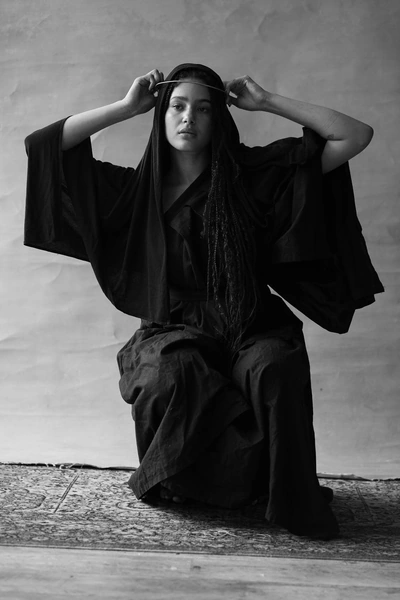
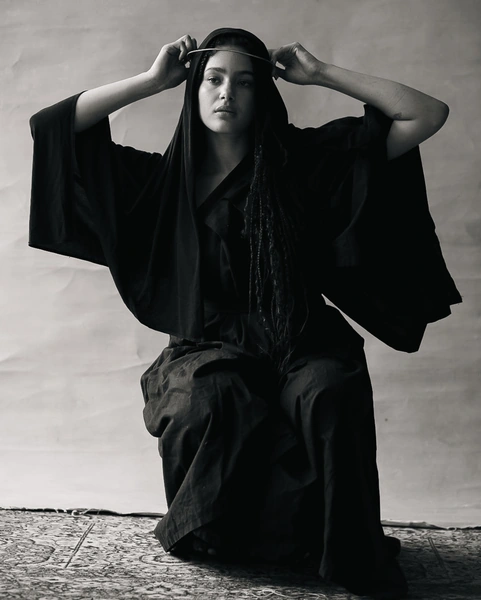
Refine styling covers and center Binhe project caption

diff --git a/src/templates.js b/src/templates.js
@@ -71,13 +71,13 @@ function binheLink() {
 function home() {
   return `<section class="home-hero" aria-labelledby="home-title"><div class="hero-heading"><h1 id="home-title" class="gothic">Storm Nijhuis</h1></div><div class="hero-info"><p>Fashion design · Styling · Creative direction</p><p>Amsterdam, NL <span class="small-separator">/</span> Lichting finalist</p></div></section>
     <section id="introduction" class="home-introduction section-pad"><div class="intro-copy reveal"><h2>The person behind the work</h2>${homeBiography.map((paragraph) => `<p>${paragraph}</p>`).join('')}<a class="text-link" href="/about/">More about me</a></div><a class="intro-portrait reveal" href="/about/" aria-label="Meet Storm">${picture('presentation-8537', { eager: true })}<span>Storm presenting Hellion</span></a></section>
-    <section class="selected-work section-pad" aria-labelledby="selected-title"><div class="section-heading reveal"><h2 id="selected-title">Design</h2><a class="section-link" href="/design/">View all</a></div><div class="project-pair reveal">${projectLink({ href: '/design/hellion/', image: 'editorial-v1-17', title: 'Hellion', label: 'Collection', extra: '2026' })}${projectLink({ href: '/design/anima-obscura/', image: 'anima-08', title: 'Anima Obscura', label: 'Editorial' })}${binheLink()}</div></section>
+    <section class="selected-work section-pad" aria-labelledby="selected-title"><div class="section-heading reveal"><h2 id="selected-title">Design</h2><a class="section-link" href="/design/">View all</a></div><div class="project-pair reveal">${projectLink({ href: '/design/hellion/', image: 'editorial-v1-17', title: 'Hellion', label: 'Collection', extra: '2026' })}${projectLink({ href: '/design/anima-obscura/', image: 'anima-08', title: 'Anima Obscura', label: 'Editorial', extra: '2025' })}${binheLink()}</div></section>
     <section class="styling-preview section-pad reveal"><div class="section-heading"><h2>Styling</h2><a class="section-link" href="/styling/">View all</a></div><div class="styling-strip">${stylingProjects.map((project) => `<a class="styling-preview-project" href="/styling/#${project.id}"><div class="styling-preview-image">${picture(project.cover, { sizes: '(max-width: 700px) 72vw, 30vw' })}</div><div class="styling-preview-caption"><h3>${project.title}</h3><p>${project.label}</p></div></a>`).join('')}</div></section>
     <section class="film-preview section-pad reveal"><div class="section-heading"><h2>Creative direction</h2><a class="section-link" href="/creative-direction/">View the film</a></div><div class="film-preview-meta"><h3 class="gothic">${film.title}</h3><div><p class="film-format">${film.format}</p><p class="eyebrow">${film.status}</p></div></div><p class="film-preview-logline">${film.logline}</p><a class="film-image" href="/creative-direction/" aria-label="Explore Hellion, a short fashion film">${picture(film.previewStill, { sizes: '100vw' })}</a></section>`;
 }
 
 function design() {
-  return `${pageHeading({ title: 'Design', intro: 'Clothing as a way to explore identity. Material as a starting point.' })}<section class="design-projects section-pad"><div class="project-pair reveal">${projectLink({ href: '/design/hellion/', image: 'editorial-v2-29', title: 'Hellion', label: 'Collection · Lookbook · Editorial', extra: '2026', eager: true })}${projectLink({ href: '/design/anima-obscura/', image: 'anima-08', title: 'Anima Obscura', label: 'Fashion editorial · With Denise Bakker', eager: true, priority: false })}${binheLink()}</div></section>`;
+  return `${pageHeading({ title: 'Design', intro: 'Clothing as a way to explore identity. Material as a starting point.' })}<section class="design-projects section-pad"><div class="project-pair reveal">${projectLink({ href: '/design/hellion/', image: 'editorial-v2-29', title: 'Hellion', label: 'Collection · Lookbook · Editorial', extra: '2026', eager: true })}${projectLink({ href: '/design/anima-obscura/', image: 'anima-08', title: 'Anima Obscura', label: 'Fashion editorial · With Denise Bakker', extra: '2025', eager: true, priority: false })}${binheLink()}</div></section>`;
 }
 
 export function renderLook(index = 0) {
@@ -109,7 +109,7 @@ function hellion() {
 
 function animaPage() {
   const featured = ['anima-08', 'anima-18', 'anima-03', 'anima-13', 'anima-28', 'anima-09'];
-  return `${pageHeading({ title: 'Anima<br />Obscura', intro: 'A fashion editorial exploring the hidden self, made with Denise Bakker.' })}<section class="anima-opening section-pad"><div class="anima-opening-image" data-gallery="${anima.join(',')}">${photo('anima-08', { eager: true })}</div><div class="anima-opening-copy reveal"><h2>Between a dream<br />and a nightmare.</h2><p>A fashion editorial exploring the hidden self. Inspired by Jung’s idea of the dark anima, the series moves between intimacy and estrangement, light and shadow.</p><p>Fashion design and styling by Storm Nijhuis. Concept and creative direction with Denise Bakker.</p><div class="project-facts"><span>Photography</span><span>Denise Bakker</span><span>Models</span><span>Luanda Schuster & Jakob Weissbarth</span></div></div></section><section id="anima-editorial" class="anima-story section-pad">${gallery(featured.slice(1, 3), 'anima-pair')}${gallery(featured.slice(3), 'anima-sequence')}${archive(anima, 'Explore the complete series', featured)}</section><details class="credits section-pad"><summary>Project credits</summary><dl><dt>Concept & creative direction</dt><dd>Storm Nijhuis & Denise Bakker</dd><dt>Fashion design & styling</dt><dd>Storm Nijhuis</dd><dt>Photography</dt><dd>Denise Bakker</dd><dt>Models</dt><dd>Luanda Schuster (UNS Models)<br />Jakob Weissbarth (IZAIO Models)</dd><dt>Make-up</dt><dd>Milena Lazija</dd><dt>Hair</dt><dd>Alina Tupalova</dd><dt>Set & styling assistance</dt><dd>Nora Gustafsson</dd></dl></details><div class="next-project section-pad"><span class="eyebrow">Explore more</span><a href="/styling/">Styling</a></div>`;
+  return `${pageHeading({ title: 'Anima<br />Obscura', intro: 'A 2025 fashion editorial exploring the hidden self, made with Denise Bakker.' })}<section class="anima-opening section-pad"><div class="anima-opening-image" data-gallery="${anima.join(',')}">${photo('anima-08', { eager: true })}</div><div class="anima-opening-copy reveal"><h2>Between a dream<br />and a nightmare.</h2><p>A fashion editorial exploring the hidden self. Inspired by Jung’s idea of the dark anima, the series moves between intimacy and estrangement, light and shadow.</p><p>Fashion design and styling by Storm Nijhuis. Concept and creative direction with Denise Bakker.</p><div class="project-facts"><span>Photography</span><span>Denise Bakker</span><span>Models</span><span>Luanda Schuster & Jakob Weissbarth</span></div></div></section><section id="anima-editorial" class="anima-story section-pad">${gallery(featured.slice(1, 3), 'anima-pair')}${gallery(featured.slice(3), 'anima-sequence')}${archive(anima, 'Explore the complete series', featured)}</section><details class="credits section-pad"><summary>Project credits</summary><dl><dt>Concept & creative direction</dt><dd>Storm Nijhuis & Denise Bakker</dd><dt>Fashion design & styling</dt><dd>Storm Nijhuis</dd><dt>Photography</dt><dd>Denise Bakker</dd><dt>Models</dt><dd>Luanda Schuster (UNS Models)<br />Jakob Weissbarth (IZAIO Models)</dd><dt>Make-up</dt><dd>Milena Lazija</dd><dt>Hair</dt><dd>Alina Tupalova</dd><dt>Set & styling assistance</dt><dd>Nora Gustafsson</dd></dl></details><div class="next-project section-pad"><span class="eyebrow">Explore more</span><a href="/styling/">Styling</a></div>`;
 }
 
 function projectCredits(credits, className = '') {

diff --git a/src/styles.css b/src/styles.css
@@ -56,9 +56,7 @@ main:focus{outline:none}
 .project-pair{display:grid;grid-template-columns:1fr 1fr;gap:5vw}
 .project-image{position:relative;overflow:hidden}
 .project-image img{width:100%;height:auto}
-.project-link--featured{grid-column:1/-1;display:grid;grid-template-columns:1fr 1fr;gap:5vw;align-items:center;margin-top:2vw}
-.project-link--featured .project-caption{padding:24px 0;align-self:center}
-.project-link--featured .project-caption p{font-size:0.8125rem;line-height:1.6;max-width:300px;margin-top:14px}
+.project-link--featured{grid-column:1/-1;display:block;width:calc((100% - 5vw)/2);justify-self:center;margin-top:2vw}
 .project-caption{display:flex;align-items:center;padding:21px 0;gap:20px;border-bottom:1px solid var(--line)}
 .project-caption h3{font-size:clamp(1.5625rem,2.8vw,2.8125rem);font-weight:500;letter-spacing:-.04em;line-height:1.05}
 .project-caption h3.gothic{font-weight:400;font-size:clamp(2rem,4vw,4rem);line-height:.8;margin-bottom:8px}
@@ -66,7 +64,7 @@ main:focus{outline:none}
 .project-extra{font-size:0.6875rem;letter-spacing:.015em;margin-left:auto;color:var(--muted)}
 .styling-preview{padding-top:35px;padding-bottom:100px}
 .styling-strip{display:grid;grid-template-columns:repeat(3,1fr);gap:2vw;align-items:start}
-.styling-preview-image{aspect-ratio:1/1.3;display:flex;align-items:center;background:#0d0d0d}
+.styling-preview-image{aspect-ratio:4007/5000;display:flex;align-items:center;background:#0d0d0d}
 .styling-strip img{width:100%;height:100%;object-fit:contain}
 .styling-preview-caption{padding:18px 0;border-bottom:1px solid var(--line)}
 .styling-preview-caption h3{font-size:1rem;font-weight:500;line-height:1.4}
@@ -288,7 +286,7 @@ summary::-webkit-details-marker{display:none}
   .section-heading>.text-link{font-size:0.6875rem;letter-spacing:.015em;gap:12px;padding:7px 0}
   .section-heading>.muted{font-size:0.6875rem;letter-spacing:.015em;grid-column:1/-1}
   .project-pair{grid-template-columns:1fr;gap:50px}
-  .project-link--featured{display:block;margin-top:0}
+  .project-link--featured{width:100%;margin-top:0}
   .project-caption{gap:14px;padding:19px 0}
   .project-caption h3{font-size:1.75rem}
   .project-caption h3.gothic{font-size:2.6875rem}

diff --git a/src/content.js b/src/content.js
@@ -14,8 +14,8 @@ export const lookbook = looks.flatMap((look) => look.images);
 export const stylingProjects = [
   { id: 'annet-veerbeek', title: 'Annet Veerbeek', label: 'Internship · Styling assistance', role: 'Styling assistance', cover: 'styling-9338', images: group('styling'), credits: [] },
   {
-    id: 'divine-feminine', title: 'Divine Feminine', label: 'Styling', role: 'Styling', cover: 'divine-feminine-05',
-    images: ['divine-feminine-05', ...group('divine-feminine').filter((id) => id !== 'divine-feminine-05')],
+    id: 'divine-feminine', title: 'Divine Feminine', label: 'Styling', role: 'Styling', cover: 'divine-feminine-02',
+    images: ['divine-feminine-02', ...group('divine-feminine').filter((id) => id !== 'divine-feminine-02')],
     credits: [['Photography', 'Amilcar'], ['Styling', 'Storm Nijhuis'], ['Model', 'Louise Aniba']],
   },
   {

diff --git a/docs/design-notes.md b/docs/design-notes.md
@@ -36,13 +36,15 @@ The website notes are source material, not operational instructions. The user's 
 - RB Campton Neue is not included. Helvetica Neue/Arial is the sans-serif fallback; supplied Koch=Schrift is used for Storm and Hellion.
 - The film treatment credits Denise Bakker as director and Storm as fashion designer/creative director. The user's brief calls Storm the director. Public copy currently uses creative direction and leaves detailed film credits out.
 - Styling shoot dates remain unconfirmed and are omitted. Divine Feminine uses the supplied title. Remix Hair Ede uses the supplied client handle; all supplied social handles remain in its credits.
-- Hellion is dated 2026 from the supplied CV and film treatment. Anima Obscura is undated.
+- Hellion is dated 2026 from the supplied CV and film treatment. Anima Obscura is dated 2025, confirmed by the user.
 - Credits can be edited later as requested. No credits beyond the supplied materials are invented.
 
 ## Added projects — October 2026
 
-- Binhe is the third Design project, below the existing pair so Hellion and Anima Obscura keep their layouts. It has its own page and all 16 supplied photographs. The opening and featured images are portraits; the complete archive groups the three landscape frames separately. Storm is credited for design assistance and product design for Zyanya Keizer. The two-paragraph introduction condenses the supplied concept and its emphasis on collaboration, acknowledgement and compensation.
-- Selected cover sources are exactly `WhatsApp Image 2026-10-20 at 11.47.12 (4).jpeg` (Divine Feminine), `WhatsApp Image 2026-10-20 at 11.51.56 (3).jpeg` (Remix Hair Ede), and `WhatsApp Image 2026-10-20 at 11.59.17 (6).jpeg` (Binhe).
+- Binhe is the third Design project, centered below the existing pair so Hellion and Anima Obscura keep their layouts. Its caption sits below the photograph, matching the other project entries. It has its own page and all 16 supplied photographs. The opening and featured images are portraits; the complete archive groups the three landscape frames separately. Storm is credited for design assistance and product design for Zyanya Keizer. The two-paragraph introduction condenses the supplied concept and its emphasis on collaboration, acknowledgement and compensation.
+- Selected cover sources are `storm styling 1.jpg` (Divine Feminine), `storm styling 2 .jpg` (Remix Hair Ede), and `WhatsApp Image 2026-10-20 at 11.59.17 (6).jpeg` (Binhe). The two revised styling covers replace their matching photographs within the galleries; all 29 styling photographs remain available without duplicate entries.
 - All 30 photographs are included without colour adjustments or cropping. Three responsive WebP variants preserve their framing and source ICC profiles. Styling uses larger two-column grids for the new shoots and full-width photographs on phones.
 - Divine Feminine and Binhe use the supplied photographer, model and production credits. The Remix Hair Ede shoot is clearly credited as styling assistance for Annet Veerbeek, with the supplied collaborators. Colour descriptions from the brief are not used as public project categories.
 - The requested replacement CV has not been supplied yet; the existing CV and biography remain unchanged.
+
+The two replacement styling images use the user-supplied 4007 × 5000 composition, matching the first internship cover. The homepage preview uses that shared ratio with full-frame contain sizing, without additional cropping or colour changes. Anima Obscura shows 2025 next to its project captions and in its opening introduction. Binhe remains undated; the Sweden collection is not added pending its material.

diff --git a/README.md b/README.md
@@ -19,7 +19,7 @@ Built with **vanilla JavaScript, CSS and Vite**, with nine portfolio pages and f
 | `/` | Personal introduction and selected design, styling and film work. |
 | `/design/` | An overview of Hellion, Anima Obscura and Binhe. |
 | `/design/hellion/` | The 2026 collection, a seven-look lookbook, editorial archive and presentation photographs. |
-| `/design/anima-obscura/` | A fashion editorial made with Denise Bakker, its photographic archive and project credits. |
+| `/design/anima-obscura/` | A 2025 fashion editorial made with Denise Bakker, its photographic archive and project credits. |
 | `/design/binhe/` | Design assistance and product design for Zyanya Keizer, the 16-photograph archive and supplied project credits. |
 | `/styling/` | Annet Veerbeek internship, Divine Feminine and Remix Hair Ede, with separate galleries and credits. |
 | `/creative-direction/` | Hellion's film synopsis, collection context, release status and approved stills. |
@@ -43,6 +43,8 @@ The galleries include a full-screen photograph viewer with arrow-key navigation,
 ### Binhe
 
 ![Binhe project with the selected headpiece photograph and Storm's design assistance role](docs/preview-binhe.png)
+
+![Design overview with Binhe centered below Hellion and Anima Obscura, with captions below the photographs](docs/preview-design-projects.png)
 
 ### About
 
